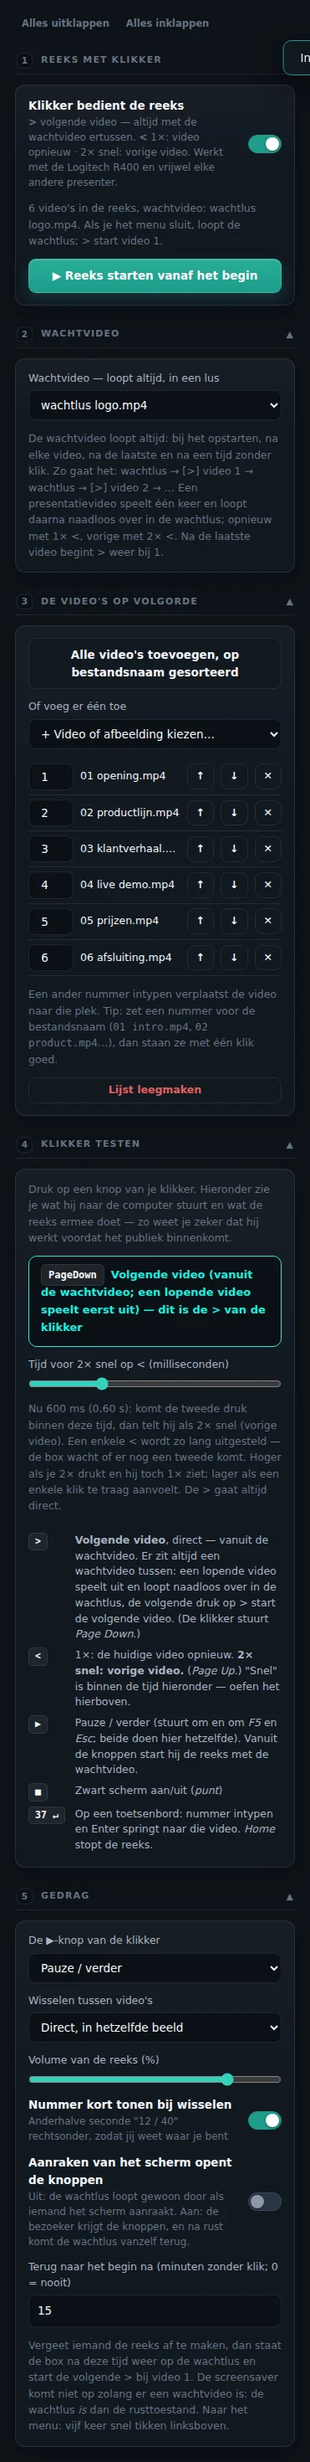
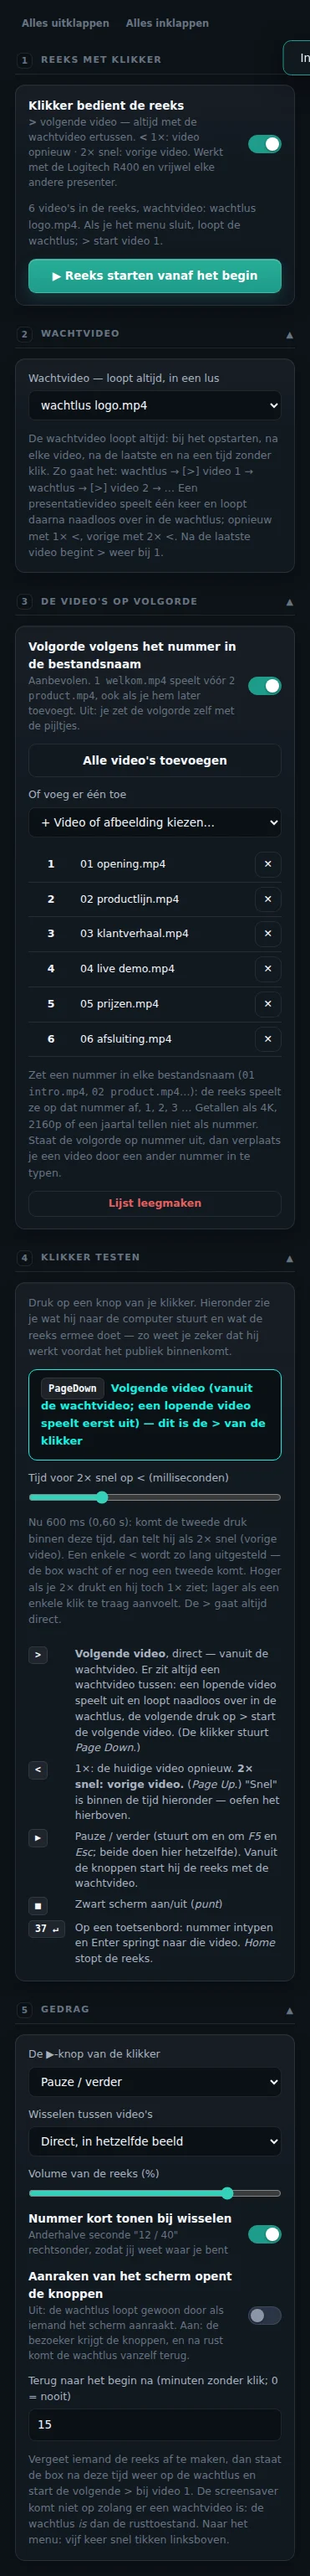
v2.26.0: reeks — het nummer in de bestandsnaam bepaalt de volgorde
- Nieuwe instelling "Volgorde volgens het nummer in de bestandsnaam"
  (standaard aan, ook voor bestaande projecten). De reeks speelt 1, 2, 3 …
  af, ongeacht wanneer of in welke volgorde video's zijn toegevoegd en
  ongeacht hoe de namen alfabetisch uitkomen.
- Nummer uit de naam: 4K, 2160p, 60fps, 1920x1080, v2 en jaartallen tellen
  niet mee. Video's zonder nummer staan achteraan.
- Vóór elke start, bij "Alle video's toevoegen" en bij los toevoegen wordt
  de lijst op nummer gezet. Voorheen kwamen nieuwe video's achteraan.
- Het menu toont per video het gevonden nummer en waarschuwt bij
  ontbrekende, dubbele of ontbrekende nummers.
- Nummer + Enter springt naar de video met dat nummer in de naam; het
  nummer in beeld is het nummer uit de naam.
- Bedieningsboek: nieuwe paragraaf "Nummers zijn leidend", tabel en
  probleemtabel bijgewerkt.

Claude-Session: https://claude.ai/code/session_01JbKNtV5JTsHZmL1UfMwTJN

diff --git a/studio/index.html b/studio/index.html
@@ -478,6 +478,9 @@
   .rk-rij .rk-naam { flex: 1; min-width: 0; overflow: hidden; text-overflow: ellipsis; white-space: nowrap;
     color: var(--color-text-primary); }
   .rk-rij.mist .rk-naam { color: #ef5da8; }
+  .rk-rij .rk-vast { width: 54px; text-align: center; font-weight: 700; font-variant-numeric: tabular-nums; }
+  .rk-rij .rk-vast.geen { font-weight: 400; opacity: .55; font-size: .8em; }
+  .rk-waarschuw { color: #f0b429; }
   .rk-rij button { padding: 4px 9px; }
 
   /* ============ ZWEVENDE BEDIENING ============ */
@@ -1749,14 +1752,23 @@
 
     <h2>De video's op volgorde</h2>
     <div class="card">
-      <button id="rkAlles" class="btn block">Alle video's toevoegen, op bestandsnaam gesorteerd</button>
+      <div class="toggle-row">
+        <div><div class="t-label">Volgorde volgens het nummer in de bestandsnaam</div>
+          <div class="t-sub">Aanbevolen. <code>1 welkom.mp4</code> speelt v&oacute;&oacute;r
+          <code>2 product.mp4</code>, ook als je hem later toevoegt. Uit: je zet de volgorde zelf
+          met de pijltjes.</div></div>
+        <label class="switch"><input type="checkbox" id="rkOpNummer"><i></i></label>
+      </div>
+      <p class="note rk-waarschuw" id="rkNummerNote" hidden></p>
+      <button id="rkAlles" class="btn block">Alle video's toevoegen</button>
       <label class="field">Of voeg er &eacute;&eacute;n toe
         <select id="rkVoegToe"></select>
       </label>
       <div id="rkLijst"></div>
-      <p class="note">Een ander nummer intypen verplaatst de video naar die plek. Tip: zet een
-      nummer voor de bestandsnaam (<code>01 intro.mp4</code>, <code>02 product.mp4</code>&hellip;),
-      dan staan ze met &eacute;&eacute;n klik goed.</p>
+      <p class="note">Zet een nummer in elke bestandsnaam (<code>01 intro.mp4</code>,
+      <code>02 product.mp4</code>&hellip;): de reeks speelt ze op dat nummer af, 1, 2, 3 &hellip;
+      Getallen als 4K, 2160p of een jaartal tellen niet als nummer. Staat de volgorde op nummer
+      uit, dan verplaats je een video door een ander nummer in te typen.</p>
       <button id="rkLeeg" class="btn small danger">Lijst leegmaken</button>
     </div>
 
@@ -2202,7 +2214,7 @@
 <script>
 'use strict';
 
-const APP_VERSION = '2.25.0';
+const APP_VERSION = '2.26.0';
 
 /* ================= Feature-flags (masterspec §0) ================= */
 // Actieve opties uit de genummerde catalogus; nieuwe nummers hier aanzetten.
@@ -2288,7 +2300,10 @@ const defaultConfig = () => ({
   reeks: { aan: false, items: [], wachtId: null, playKnop: 'pauze', overgang: 'direct',
     volume: 80, aanraakMenu: false, terugNaMin: 15, nummerTonen: true,
     // Binnen hoeveel ms de tweede klik moet komen om als "2× snel" te tellen.
-    dubbelMs: 600 },
+    dubbelMs: 600,
+    // Het nummer in de bestandsnaam bepaalt de volgorde (1, 2, 3 …), niet de
+    // plek waar iemand de video in de lijst heeft gezet.
+    opNummer: true },
   // stuckSec: na zoveel seconden bewegingloze 'aanwezigheid' ijkt de achtergrond
   // opnieuw — anders houdt een lichtsprong of verschoven meubel de box voor
   // altijd 'bezet'. 0 = nooit opnieuw ijken.
@@ -7871,6 +7886,43 @@ $('#statsReset').addEventListener('click', () => {
 const rkCfg = () => config.reeks;
 const rkMedia = (id) => mediaCache.get(id);
 
+/* Het nummer van een video, uit zijn bestandsnaam: "01 welkom.mp4" → 1,
+   "Welkom 3.mp4" → 3, "clip_12 (4K).mp4" → 12. Getallen die een eenheid zijn
+   (4K, 2160p, 60fps, 1920x1080), een versie (v2) of een jaartal tellen niet mee,
+   zolang er een ander getal is. Geen nummer → null. */
+function videoNummer(naam) {
+  const basis = String(naam || '').replace(/\.[a-z0-9]{2,5}$/i, '');
+  const kand = [];
+  for (const m of basis.matchAll(/\d+/g)) {
+    const voor = basis.slice(0, m.index);
+    const na = basis.slice(m.index + m[0].length);
+    if (/^(k|p|i|fps|hz|x|bit|kbps|mbps|mb|gb)(?![a-z])/i.test(na)) continue;   // 4K, 1080p, 60fps, 1920x…
+    if (/x$/i.test(voor) && /\d$/.test(voor.slice(0, -1))) continue;            // …x1080
+    if (/(^|[^a-z])v$/i.test(voor)) continue;                                   // v2
+    if (/[.,]$/.test(voor) && /\d$/.test(voor.slice(0, -1))) continue;          // 1.5 → alleen de 1
+    const n = parseInt(m[0], 10);
+    kand.push({ n, jaar: m[0].length === 4 && n >= 1900 && n <= 2099 });
+  }
+  const k = kand.find((x) => !x.jaar) || kand[0];
+  return k ? k.n : null;
+}
+const rkNummer = (id) => { const m = rkMedia(id); return m ? videoNummer(m.name) : null; };
+
+/* Zet de reeks op nummer, als dat aanstaat. Video's zonder nummer komen
+   achteraan, in hun eigen volgorde; bij een gelijk nummer beslist de naam.
+   Geeft true als de volgorde veranderde. */
+function rkOrden() {
+  const r = config.reeks;
+  if (!r || r.opNummer === false || !Array.isArray(r.items) || r.items.length < 2) return false;
+  const voor = r.items.join('|');
+  const naam = (id) => rkMedia(id)?.name || '';
+  r.items = r.items.map((id, i) => ({ id, i, n: rkNummer(id) })).sort((a, b) => {
+    if (a.n == null || b.n == null) return a.n == null && b.n == null ? a.i - b.i : (a.n == null ? 1 : -1);
+    return a.n - b.n || naam(a.id).localeCompare(naam(b.id), 'nl', { numeric: true, sensitivity: 'base' }) || a.i - b.i;
+  }).map((x) => x.id);
+  return r.items.join('|') !== voor;
+}
+
 function renderReeksStatus() {
   const n = document.getElementById('rkStatus');
   if (!n) return;
@@ -7924,21 +7976,48 @@ function renderReeks() {
   for (const m of mediaCache.values()) {
     if (m.kind === 'video' || m.kind === 'image') voeg.append(el('option', { value: m.id }, m.name));
   }
+  const opNummer = r.opNummer !== false;
+  $('#rkOpNummer').checked = opNummer;
+  if (!Reeks.actief && rkOrden()) { save(); Reeks.vergeet(); }
   const lijst = $('#rkLijst');
   lijst.innerHTML = '';
   r.items.forEach((id, i) => {
     const m = rkMedia(id);
+    const weg = el('button', { class: 'btn small', title: 'Uit de reeks halen', onclick: () => {
+      pushUndo(); r.items.splice(i, 1); save(); Reeks.vergeet(); renderReeks(); } }, '✕');
+    const naam = el('span', { class: 'rk-naam', title: m ? m.name : 'ontbreekt' }, m ? m.name : 'ontbreekt op deze computer');
+    if (opNummer) {
+      // Het nummer komt uit de bestandsnaam; verplaatsen = de naam aanpassen.
+      const n = rkNummer(id);
+      lijst.append(el('div', { class: 'rk-rij' + (m ? '' : ' mist') },
+        el('span', { class: 'rk-vast' + (n == null ? ' geen' : ''),
+          title: n == null ? 'Geen nummer in de bestandsnaam — staat achteraan' : 'Nummer uit de bestandsnaam' },
+          n == null ? 'geen nr' : String(n)),
+        naam, weg));
+      return;
+    }
     const nr = el('input', { type: 'number', class: 'rk-nr', min: '1', max: String(r.items.length), value: String(i + 1),
       title: 'Typ een ander nummer om de video te verplaatsen' });
     nr.addEventListener('change', () => rkVerplaats(i, Number(nr.value) - 1));
     lijst.append(el('div', { class: 'rk-rij' + (m ? '' : ' mist') },
-      nr,
-      el('span', { class: 'rk-naam', title: m ? m.name : 'ontbreekt' }, m ? m.name : 'ontbreekt op deze computer'),
+      nr, naam,
       el('button', { class: 'btn small', title: 'Omhoog', onclick: () => rkVerplaats(i, i - 1) }, '↑'),
       el('button', { class: 'btn small', title: 'Omlaag', onclick: () => rkVerplaats(i, i + 1) }, '↓'),
-      el('button', { class: 'btn small', title: 'Uit de reeks halen', onclick: () => {
-        pushUndo(); r.items.splice(i, 1); save(); Reeks.vergeet(); renderReeks(); } }, '✕')));
+      weg));
   });
+  // Controle op de nummering: ontbrekend, dubbel, of geen nummer.
+  const note = $('#rkNummerNote');
+  const nrs = r.items.map(rkNummer).filter((n) => n != null);
+  const zonder = r.items.filter((id) => rkMedia(id) && rkNummer(id) == null).length;
+  const dubbel = [...new Set(nrs.filter((n, i) => nrs.indexOf(n) !== i))];
+  const gat = [];
+  if (nrs.length) for (let n = Math.min(...nrs); n <= Math.max(...nrs) && gat.length < 6; n++) if (!nrs.includes(n)) gat.push(n);
+  const zinnen = [];
+  if (opNummer && gat.length) zinnen.push(`Nummer ${gat.join(', ')} ontbreekt — de reeks slaat het over.`);
+  if (opNummer && dubbel.length) zinnen.push(`Nummer ${dubbel.join(', ')} komt meer dan één keer voor — op naam gesorteerd.`);
+  if (opNummer && zonder) zinnen.push(`${zonder} video${zonder === 1 ? ' heeft' : "'s hebben"} geen nummer in de naam en ${zonder === 1 ? 'staat' : 'staan'} achteraan.`);
+  note.hidden = !zinnen.length;
+  note.textContent = zinnen.join(' ');
   if (!r.items.length) lijst.append(el('p', { class: 'note' }, 'Nog geen video\'s in de reeks.'));
   $('#rkPlayKnop').value = r.playKnop || 'pauze';
   $('#rkPlayUitleg').innerHTML = (r.playKnop === 'stop' ? 'Reeks stoppen, terug naar de knoppen' : 'Pauze / verder') +
@@ -7974,9 +8053,13 @@ $('#rkStart').addEventListener('click', () => {
 $('#rkWacht').addEventListener('change', (e) => { rkCfg().wachtId = e.target.value || null; save(); renderReeks(); });
 $('#rkVoegToe').addEventListener('change', (e) => {
   if (!e.target.value) return;
-  pushUndo(); rkCfg().items.push(e.target.value); save(); renderReeks();
+  pushUndo(); rkCfg().items.push(e.target.value); rkOrden(); save(); Reeks.vergeet(); renderReeks();
+});
+$('#rkOpNummer').addEventListener('change', (e) => {
+  pushUndo(); rkCfg().opNummer = e.target.checked; rkOrden(); save(); Reeks.vergeet(); renderReeks();
 });
 // Op bestandsnaam, met getallen als getallen: "2 intro" komt vóór "10 slot".
+// Met de volgorde op nummer wordt daarna de hele lijst op nummer gezet.
 $('#rkAlles').addEventListener('click', () => {
   const r = rkCfg();
   const al = new Set(r.items);
@@ -7986,8 +8069,9 @@ $('#rkAlles').addEventListener('click', () => {
   if (!nieuw.length) return toast(r.items.length ? 'Alle video\'s staan al in de reeks.' : 'Er staan nog geen video\'s in Media.');
   pushUndo();
   r.items.push(...nieuw.map((m) => m.id));
+  rkOrden();
   save(); Reeks.vergeet(); renderReeks();
-  toast(`${nieuw.length} video${nieuw.length === 1 ? '' : "'s"} toegevoegd, op naam gesorteerd`);
+  toast(`${nieuw.length} video${nieuw.length === 1 ? '' : "'s"} toegevoegd` + (r.opNummer !== false ? ', op nummer gezet' : ', op naam gesorteerd'));
 });
 $('#rkLeeg').addEventListener('click', () => {
   if (!rkCfg().items.length) return;
@@ -10386,7 +10470,9 @@ const Reeks = (() => {
     idx = Math.max(1, Math.min(n, idx));
     pos = idx;
     zwartZet(false);
-    toonNummer(`${idx} / ${n}`);
+    // Op nummer: het nummer uit de bestandsnaam tonen, zoals de presentator het kent.
+    const label = cfg().opNummer !== false ? (rkNummer(lijst()[idx - 1]) ?? idx) : idx;
+    toonNummer(`${label} / ${n}`);
     const m = mediaCache.get(lijst()[idx - 1]);
     if (!m) { afgelopen(); voorbereiden(idx); return; }    // ontbreekt: meteen naar de wachtvideo
     if (m.kind === 'image') {
@@ -10535,6 +10621,13 @@ const Reeks = (() => {
     }
     if (vanaf === 'begin') pos = 0;
     if (actief) return true;
+    // Nummers zijn leidend: vóór elke start de lijst op nummer zetten, ook als
+    // er intussen video's zijn bijgekomen of hernoemd.
+    if (rkOrden()) {
+      save();
+      for (const s of slots) s.dataset.idx = '';
+      pos = 0;
+    }
     actief = true;
     if (panel.classList.contains('open')) closeEditor();
     if (saverActive) exitSaver();
@@ -10737,6 +10830,11 @@ const Reeks = (() => {
     cijfers = '';
     laatsteKlik = Date.now();
     if (!n || !aanzetten('hervat')) return;
+    // Op nummer: naar de video met dát nummer in de naam, niet naar de n-de plek.
+    if (cfg().opNummer !== false) {
+      const plek = lijst().findIndex((id) => rkNummer(id) === n);
+      if (plek >= 0) return speel(plek + 1);
+    }
     speel(n);
   }
 

diff --git a/docs/handleiding/index.html b/docs/handleiding/index.html
@@ -289,7 +289,7 @@ header.cover{padding-block:88px 8px}
   <b>wat</b> het doet, <b>waar</b> het staat en <b>waarom</b> het er zo uitziet.
   Alle afbeeldingen komen uit de draaiende software, niet uit een ontwerp.</p>
   <div class="meta">
-    <span>Versie 2.25.0</span><span>23 hoofdstukken</span><span>33 schermafbeeldingen</span>
+    <span>Versie 2.26.0</span><span>23 hoofdstukken</span><span>33 schermafbeeldingen</span>
     <span>Nederlands</span>
   </div>
 </header>
@@ -1449,6 +1449,29 @@ header.cover{padding-block:88px 8px}
     </svg>
   </div>
 
+  <h3>Nummers zijn leidend</h3>
+  <p class="measure">De volgorde komt uit het nummer in de bestandsnaam, niet uit de plek
+  waar een video in de lijst staat. <code>1 welkom.mp4</code>, <code>2 product.mp4</code>,
+  <code>10 afsluiting.mp4</code> spelen dus als 1, 2, 10 &mdash; ook als je video 2 pas later
+  toevoegt, en ook als de namen alfabetisch anders zouden uitkomen (<code>Welkom 1</code>,
+  <code>Uitleg 2</code>, <code>Afsluiting 3</code> blijft 1-2-3). Vóór elke start zet de box
+  de lijst opnieuw op nummer.</p>
+  <div class="tw"><table>
+    <thead><tr><th>Bestandsnaam</th><th>Nummer</th></tr></thead>
+    <tbody>
+      <tr><td><code>01 welkom.mp4</code></td><td>1</td></tr>
+      <tr><td><code>Welkom 3.mp4</code>, <code>intro_3.mov</code>, <code>video3.mp4</code></td><td>3</td></tr>
+      <tr><td><code>Uitleg 2 (4K).mp4</code>, <code>Uitleg 2 2160p.mp4</code></td><td>2 &mdash; 4K en 2160p tellen niet</td></tr>
+      <tr><td><code>HWH 2024 video 7.mp4</code></td><td>7 &mdash; een jaartal telt niet als er een ander getal is</td></tr>
+      <tr><td><code>Praat 6 v2.mp4</code></td><td>6 &mdash; een versie (v2) telt niet</td></tr>
+      <tr><td><code>wachtlus.mp4</code></td><td>geen &mdash; staat achteraan</td></tr>
+    </tbody>
+  </table></div>
+  <p class="measure">Het menu waarschuwt als er iets niet klopt: een nummer dat ontbreekt
+  (de reeks slaat het over), een nummer dat twee keer voorkomt (dan beslist de naam), of
+  video's zonder nummer. Typ je op een toetsenbord een nummer en Enter, dan springt de box naar
+  de video met <b>dat nummer in de naam</b>; het nummer in beeld is ook dat nummer.</p>
+
   <h3>Hoe de Logitech R400 werkt</h3>
   <p class="measure">De R400 heeft geen software nodig. Het ontvangertje in de USB-poort meldt
   zich bij Windows als een gewoon toetsenbord, en elke knop stuurt een toets. Bereik tot
@@ -1489,7 +1512,7 @@ header.cover{padding-block:88px 8px}
 
   <div class="split">
     <figure><div class="panelshot tall">
-      <img src="img/paneel-reeks.webp" alt="Het paneel Reeks en klikker" width="371" height="2941" loading="lazy">
+      <img src="img/paneel-reeks.webp" alt="Het paneel Reeks en klikker" width="371" height="3076" loading="lazy">
     </div></figure>
     <div class="tw"><table>
       <thead><tr><th>Veld</th><th>Wat het doet</th><th>Waarom</th></tr></thead>
@@ -1504,13 +1527,14 @@ header.cover{padding-block:88px 8px}
           elke video, na de laatste en na een tijd zonder klik.</td>
           <td>Een logo-animatie of sfeerlus vult de tijd terwijl jij praat. Zonder wachtvideo
           blijft het laatste beeld staan tot de volgende klik.</td></tr>
-        <tr><td>De video's op volgorde</td><td>De nummers zijn de plek in de lijst. Typ een
-          ander nummer om een video te verplaatsen, of gebruik de pijltjes.</td>
-          <td>Bij honderd video's is slepen onbegonnen werk; een nummer intypen niet.</td></tr>
-        <tr><td>Alle video's toevoegen</td><td>Zet alle video's uit Media in de reeks, op
-          bestandsnaam gesorteerd — <code>2 intro</code> vóór <code>10 slot</code>. De
-          wachtvideo slaat hij over.</td><td>Geef je bestanden een nummer voorin, dan staat
-          de hele reeks met één klik goed.</td></tr>
+        <tr><td>Volgorde volgens het nummer in de bestandsnaam</td><td>Standaard aan. Het
+          nummer in de naam is leidend: de reeks speelt 1, 2, 3 &hellip; af, hoe en wanneer je de
+          video's ook hebt toegevoegd. De lijst toont per video het gevonden nummer.</td>
+          <td>Zo kan de volgorde nooit ongemerkt verschuiven. Uit: je bepaalt de volgorde zelf
+          met de pijltjes of door een ander nummer in te typen.</td></tr>
+        <tr><td>Alle video's toevoegen</td><td>Zet alle video's uit Media in de reeks, meteen op
+          nummer. De wachtvideo slaat hij over.</td><td>Met een nummer in elke bestandsnaam
+          staat de hele reeks met één klik goed.</td></tr>
         <tr><td>Klikker testen</td><td>Laat zien welke toets er binnenkomt, of het een enkele
           of een dubbele klik was, na hoeveel milliseconden de tweede druk kwam, en wat de
           reeks ermee doet.</td><td>Zo weet je vóór het publiek binnenkomt dat de ontvanger erin
@@ -2535,6 +2559,10 @@ header.cover{padding-block:88px 8px}
       <tr><td>&gt; tijdens een video doet niets</td><td>Zo hoort het: de wachtvideo zit altijd
         tussen twee video's, en een video wordt nooit onderbroken.</td><td>Laat de video
         uitspelen; in de wachtlus start &gt; de volgende.</td></tr>
+      <tr><td>De video's spelen in de verkeerde volgorde</td><td>Een bestandsnaam heeft geen
+        of een ander nummer dan je denkt, of de volgorde op nummer staat uit.</td><td>Kijk bij
+        Reeks &amp; klikker in de lijst: links staat per video het gevonden nummer. Pas zo nodig
+        de bestandsnaam aan en zet <b>Volgorde volgens het nummer</b> aan.</td></tr>
       <tr><td>2&times; &lt; herhaalt de video in plaats van de vorige te kiezen</td><td>De tweede
         klik kwam te laat; de box zag twee losse klikken.</td><td>Druk onder Reeks &amp; klikker
         &rarr; <b>Klikker testen</b> twee keer op &lt;: je ziet na hoeveel milliseconden de
@@ -2653,7 +2681,7 @@ header.cover{padding-block:88px 8px}
 
   <hr class="soft">
   <p class="measure" style="color:var(--ink-3);font-size:14.5px">
-    Dit boek hoort bij versie 2.25.0 van de HereWeHolo Experience Manager. De bewegingswetten
+    Dit boek hoort bij versie 2.26.0 van de HereWeHolo Experience Manager. De bewegingswetten
     achter Motion staan uitgeschreven in <code>docs/MOTION.md</code>; het systeem zelf kun je
     in werking zien in <code>motion/motion-system.html</code>.
   </p>
